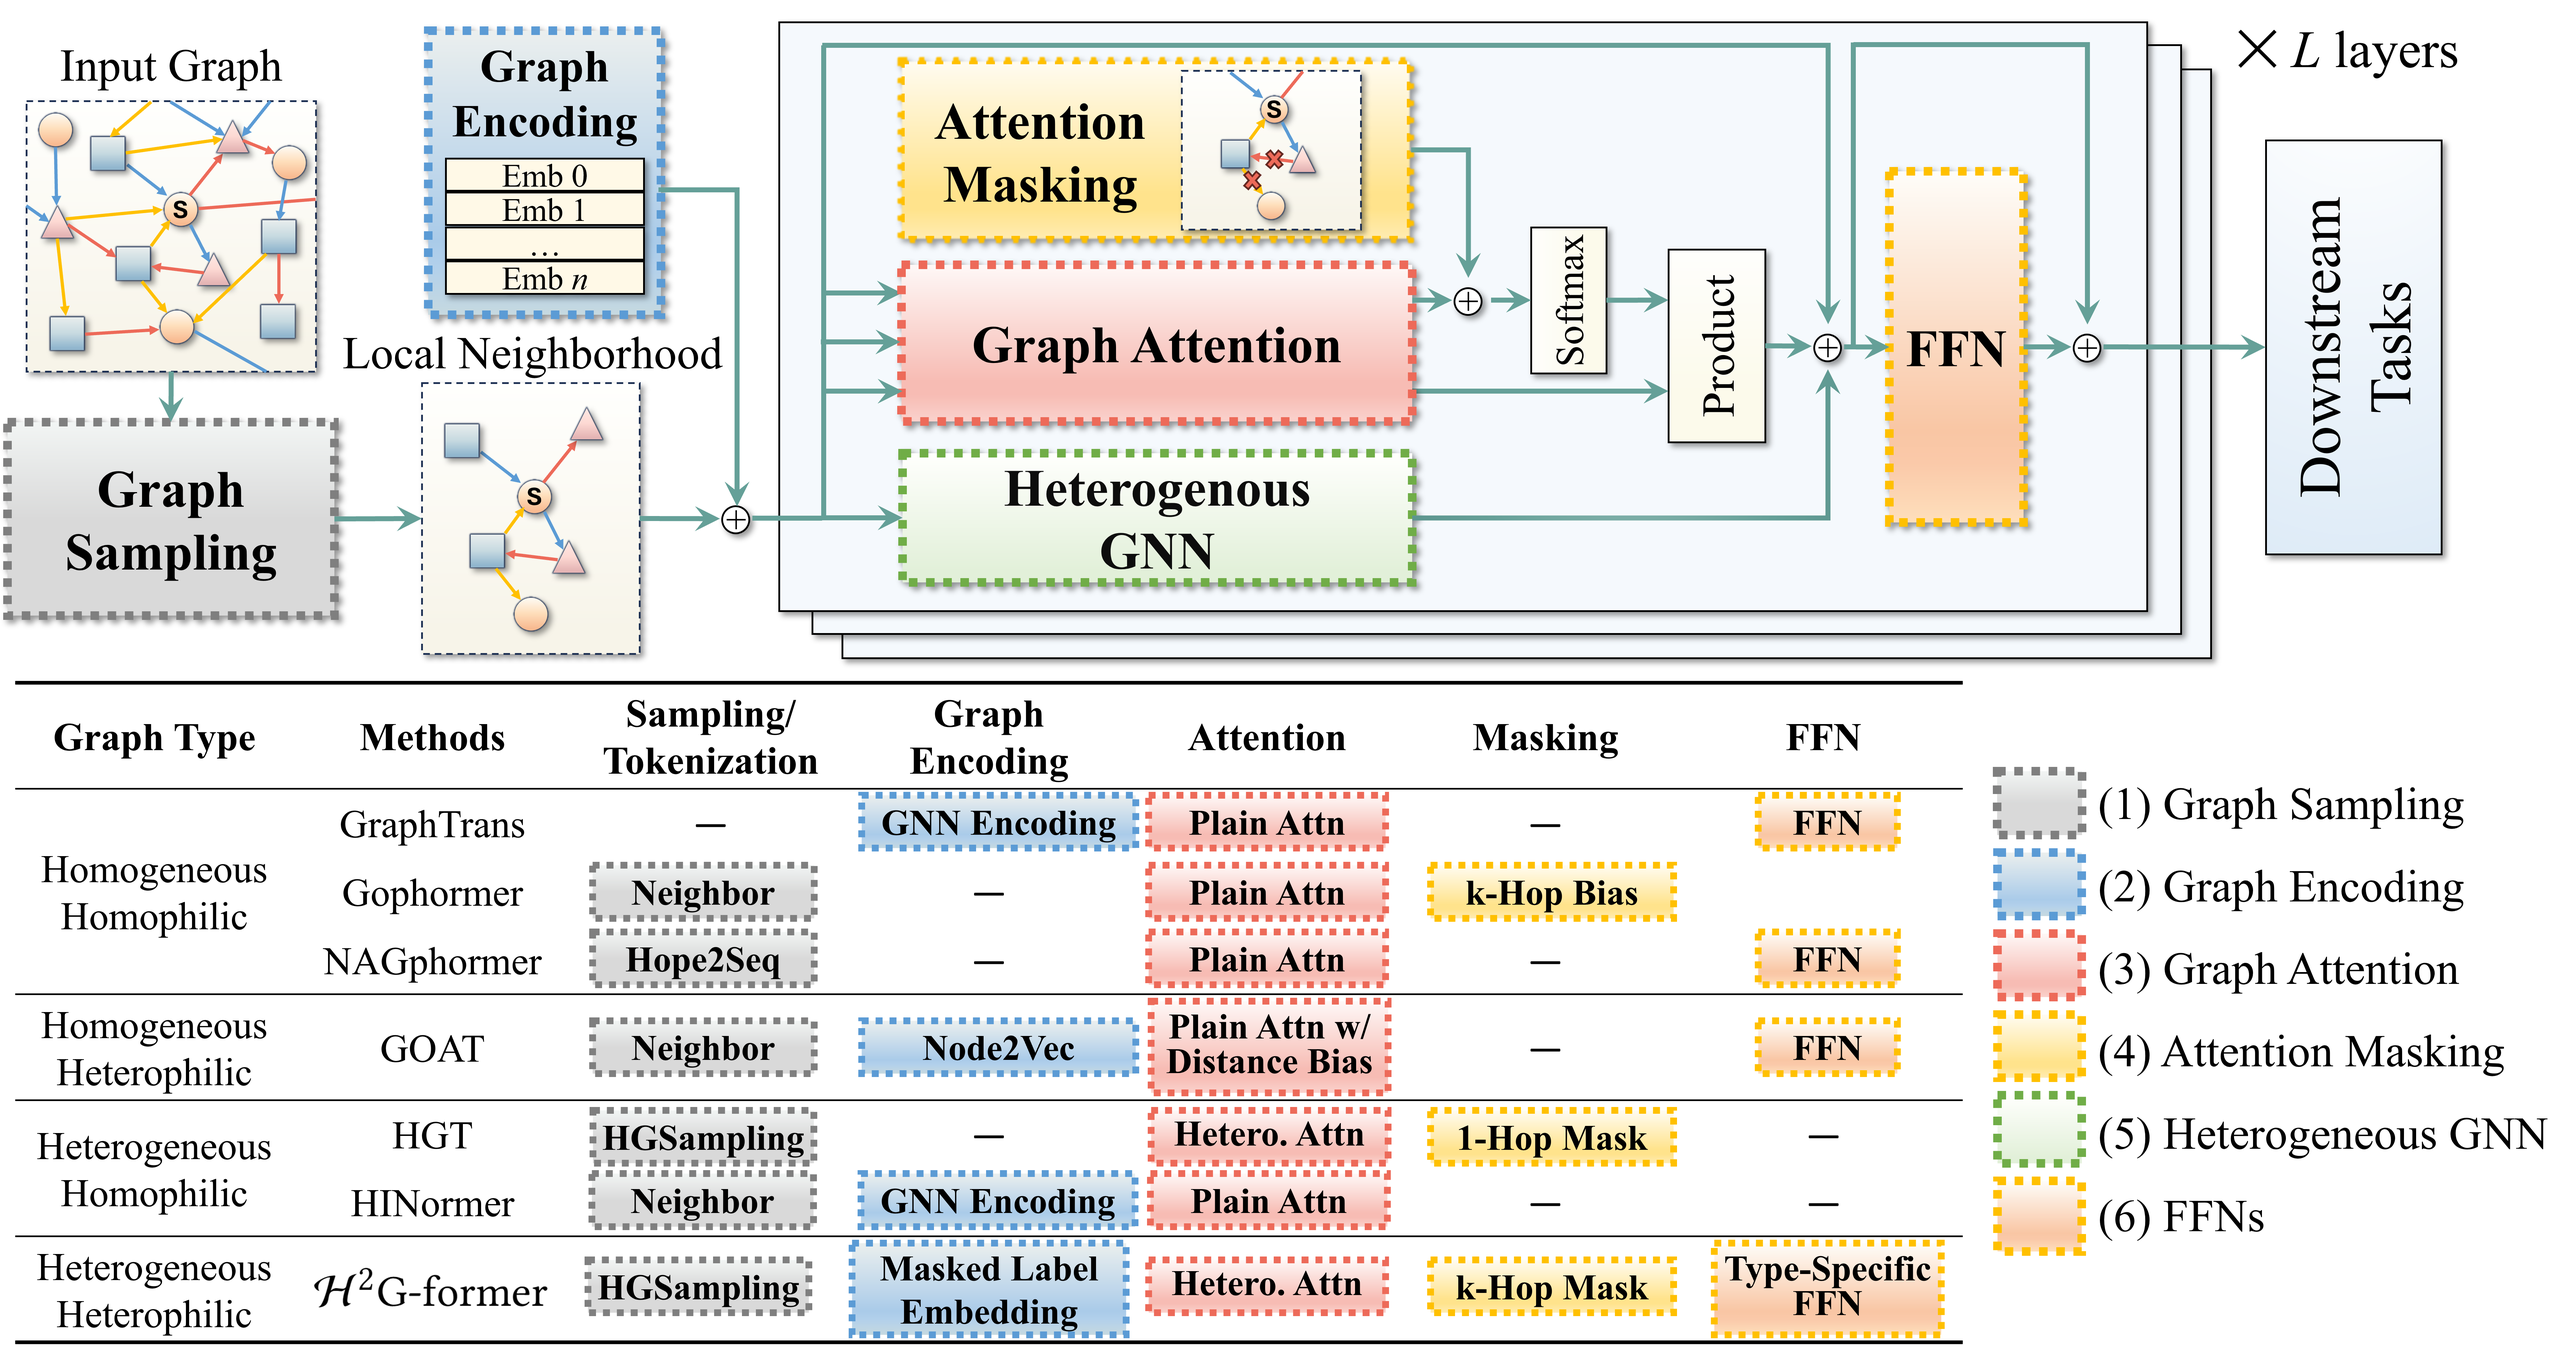
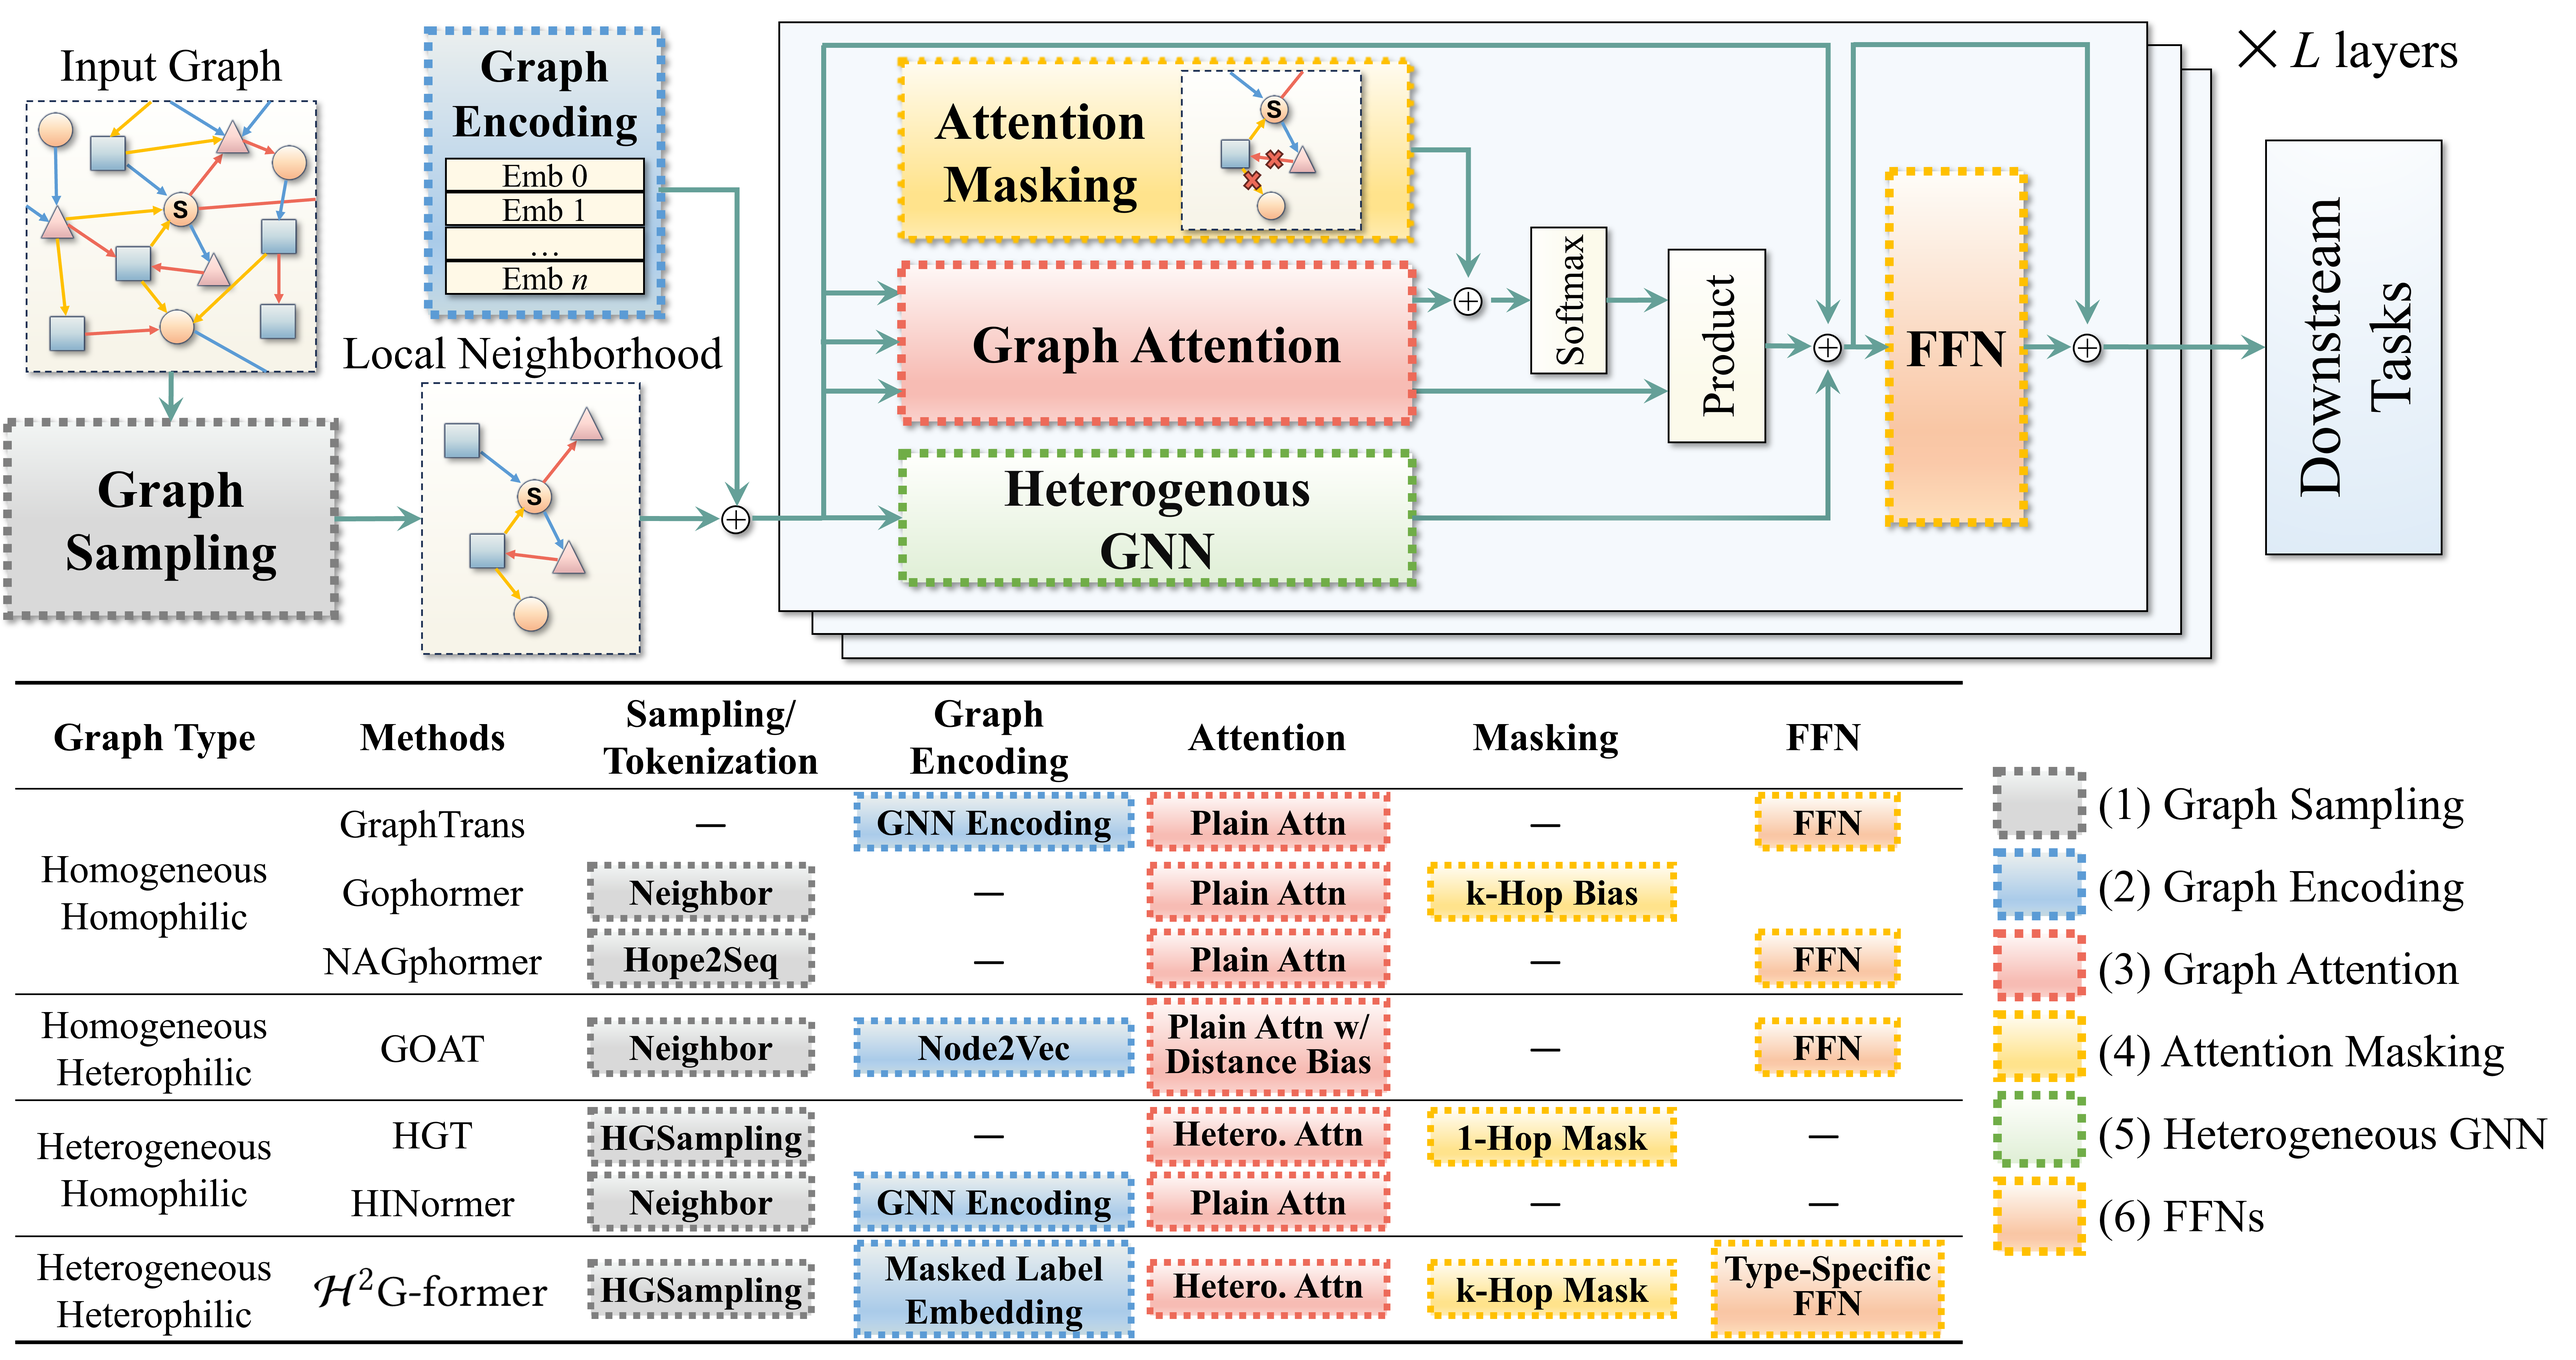
Update README

diff --git a/README.md b/README.md
@@ -4,7 +4,9 @@
 
 <div align="center">
 
-# [When Heterophily Meets Heterogeneity:<br>Challenges and a New Large-Scale Graph Benchmark](https://arxiv.org/abs/2407.10916)
+# [When Heterophily Meets Heterogeneity:<br>Challenges and a New Large-Scale Graph Benchmark](https://dl.acm.org/doi/10.1145/3711896.3737421)
+# 🏆 Best Paper Award, KDD 2025 Datasets & Benchmarks Track
+[![ACM](https://img.shields.io/badge/ACM%20DL-KDD%202025-blue?logo=acm&logoColor=white)](https://dl.acm.org/doi/10.1145/3711896.3737421)
 [![preprint](https://img.shields.io/static/v1?label=arXiv&message=2407.10916&color=B31B1B&logo=arXiv)](https://arxiv.org/pdf/2407.10916)
 [![huggingface](https://img.shields.io/badge/%F0%9F%A4%97%20Hugging%20Face-Datasets-FFD21E)](https://huggingface.co/datasets/junhongmit/H2GB)
 [![PyPI](https://img.shields.io/static/v1?label=PyPI&message=H2GB&color=brightgreen&logo=pypi)](https://pypi.org/project/H2GB/)
@@ -19,15 +21,16 @@
 
 --------------------------------------------------------------------------------
 
-## 📌Overview
+## 📌 Overview
 The Heterophilic and Heterogeneous Graph Benchmark (ℋ²GB) is a collection of graph benchmark datasets, data loaders, modular graph transformer framework (UnifiedGT) and evaluators for graph learning.
 The ℋ²GB encompasses 9 diverse real-world datasets across 5 domains. Its data loaders are fully compatible with popular graph deep learning framework [PyTorch Geometric](https://pytorch-geometric.readthedocs.io/en/latest/). They provide automatic dataset downloading, standardized dataset splits, and unified performance evaluation.
 
 <p align='center'>
-  <img src="https://raw.githubusercontent.com/junhongmit/H2GB/main/imgs/flowchart_v3_color.png" width="80%" height="auto"/>
+  <img src="https://raw.githubusercontent.com/junhongmit/H2GB/main/imgs/flowchart_v4.png" width="80%" height="auto"/>
 </p>
 
-## Environment Setup
+
+## ⚙ Environment Setup
 You can create a conda environment to easily run the code. For example, we can create a virtual environment named `H2GB`:
 ```
 conda create -n H2GB python=3.9 -y
@@ -40,8 +43,13 @@ conda install pyg -c pyg
 pip install -r requirements.txt
 ```
 
+> 💡 **We have also pack everything for you on the PyPI, and the easiest way to use the library is simply running:**
+> ```
+> pip install H2GB
+> ```
 
-## Run the UnifiedGT
+
+## 🚀 Run the UnifiedGT
 To summarize and systematically compare the performance of existing GNNs on `H2GB`, we designed `UnifiedGT`. `UnifiedGT` is a modular graph transformer framework that  designed to encompass many existing GTs and GNNs by leveraging unified components: (1) graph sampling, (2) graph encoding, (3) graph attention, (4) attention masking, (5) heterogeneous GNN, and (6) feedforward networks (FFN). It is implemented as a Python library and is user-friendly. It includes a unified data loader and evaluator, making it easy for researchers to access datasets, evaluate methods, and compare performance.
 
 <p align='center'>
@@ -74,25 +82,28 @@ For example, the following command is to run `MLP` model experiment for `oag-cs`
 python -m H2GB.main --cfg configs/oag-cs/oag-cs-MLP.yaml name_tag MLP
 ```
 
-## Caclulate the class-adjusted heterogeneous heterophily index (ℋ² Index)
+## 📊 Caclulate the class-adjusted heterogeneous heterophily index (ℋ² Index)
 We provide a extended heterophily measurement from homogeneous grpah into the heterogeneous setting, which is called metapath-induced heterophily measrement. The calcualtion function is available in `./H2GB/calcHomophily.py`. You can simply import it by using `from H2GB.calcHomophily import calcHomophily` and measure the heterophily of your data. For convenience, we also provide a script to reproduce the heterophily measurement on our developed datasets. Note that $$\text{Heterophily} = 1 - \text{Homophily}$$ So just do a simple transformation to obtain the heterophily.
 ```
 chmox +x ./run/calcHomo.sh
 ./run/calcHomo.sh
 ```
 
-## Additional Notes
-### Encoders
-The Hetero_Raw encoder are supposed to be used for heterogeneous GNN or graph dataset that has  different node encoding dimensions for different node type. Therefore, each node type can be transformed separately. To reproduce results of homogeneous GNN, consider using the Raw encoder, which apply the same transformation for each node type. Otherwise, using Hetero_Raw for homogeneous GNN will misleadingly increase the task performance.
-
 ## 📚 Citation
-If you use this dataset, please consider citing the following paper (currently on arXiv, will be in KDD procedding soon):
+If you find this dataset or benchmark useful, please consider citing the following paper:
 
 ```
-@article{lin2024heterophily,
-  title={When Heterophily Meets Heterogeneity: New Graph Benchmarks and Effective Methods},
-  author={Lin, Junhong and Guo, Xiaojie and Zhang, Shuaicheng and Zhou, Dawei and Zhu, Yada and Shun, Julian},
-  journal={arXiv preprint arXiv:2407.10916},
-  year={2024}
+@inproceedings{lin2025h2gb,
+  author    = {Lin, Junhong and Guo, Xiaojie and Zhang, Shuaicheng and Zhu, Yada and Shun, Julian},
+  title     = {When Heterophily Meets Heterogeneity: Challenges and a New Large-Scale Graph Benchmark},
+  booktitle = {Proceedings of the 31st ACM SIGKDD Conference on Knowledge Discovery and Data Mining (KDD)},
+  year      = {2025},
+  pages     = {5607--5618},
+  doi       = {10.1145/3711896.3737421},
+  url       = {https://doi.org/10.1145/3711896.3737421}
 }
 ```
+
+## 📝 Additional Notes
+### 🧩 Encoders
+The Hetero_Raw encoder are supposed to be used for heterogeneous GNN or graph dataset that has  different node encoding dimensions for different node type. Therefore, each node type can be transformed separately. To reproduce results of homogeneous GNN, consider using the Raw encoder, which apply the same transformation for each node type. Otherwise, using Hetero_Raw for homogeneous GNN will misleadingly increase the task performance.
